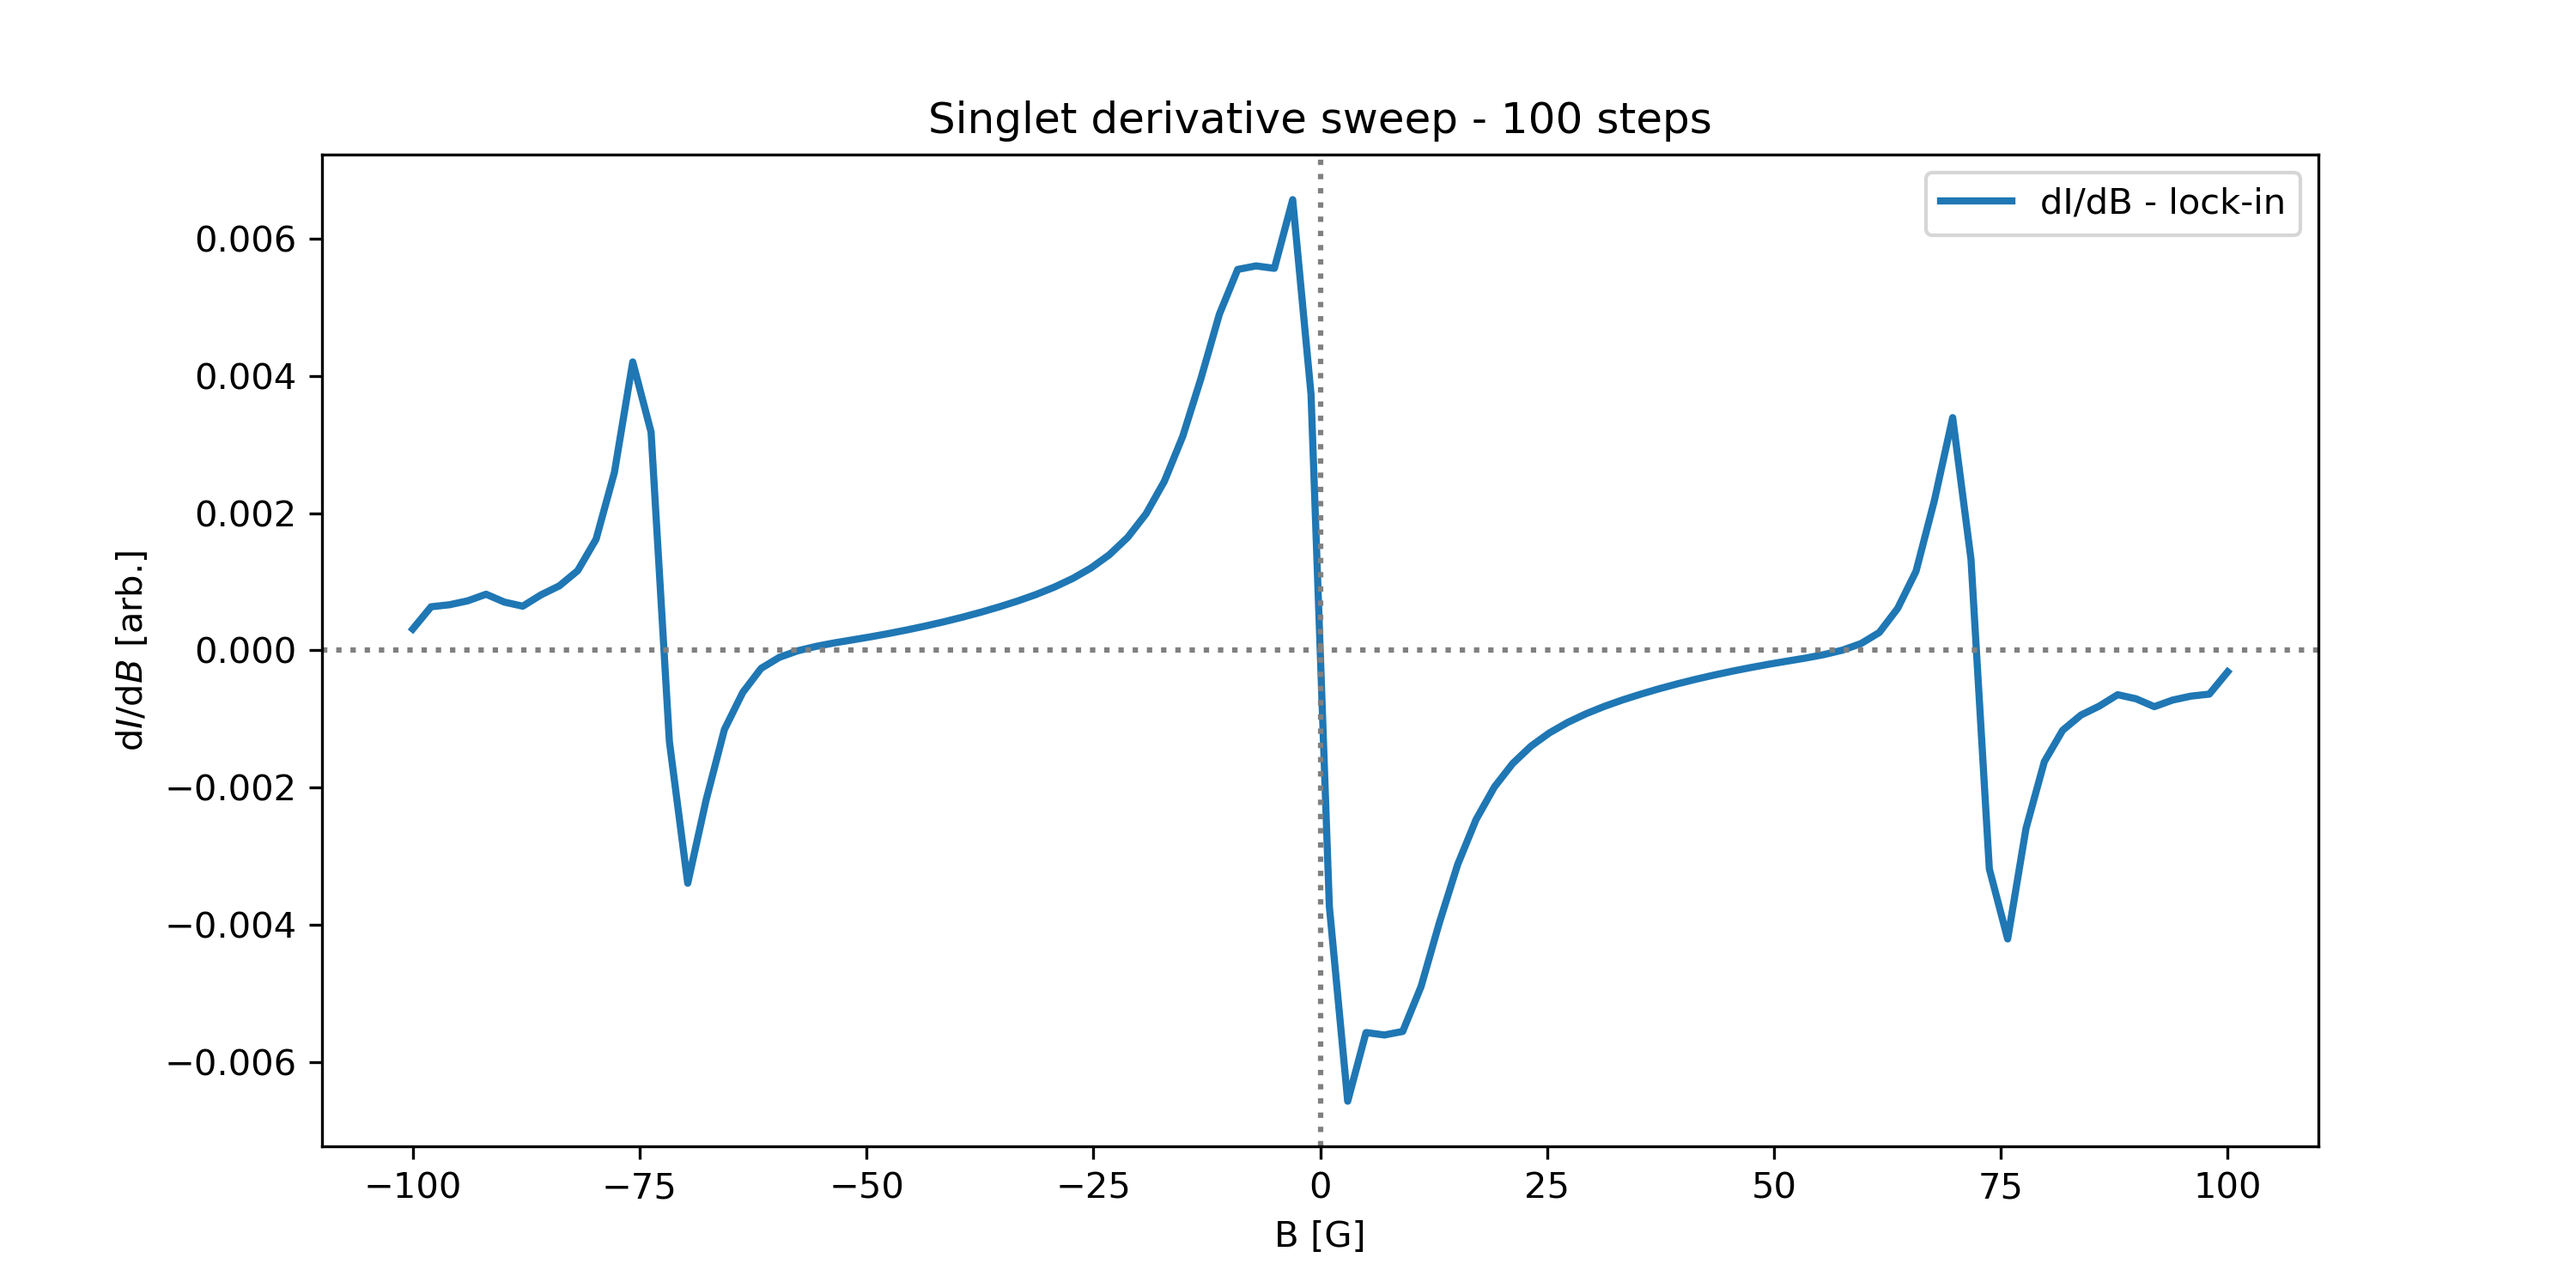
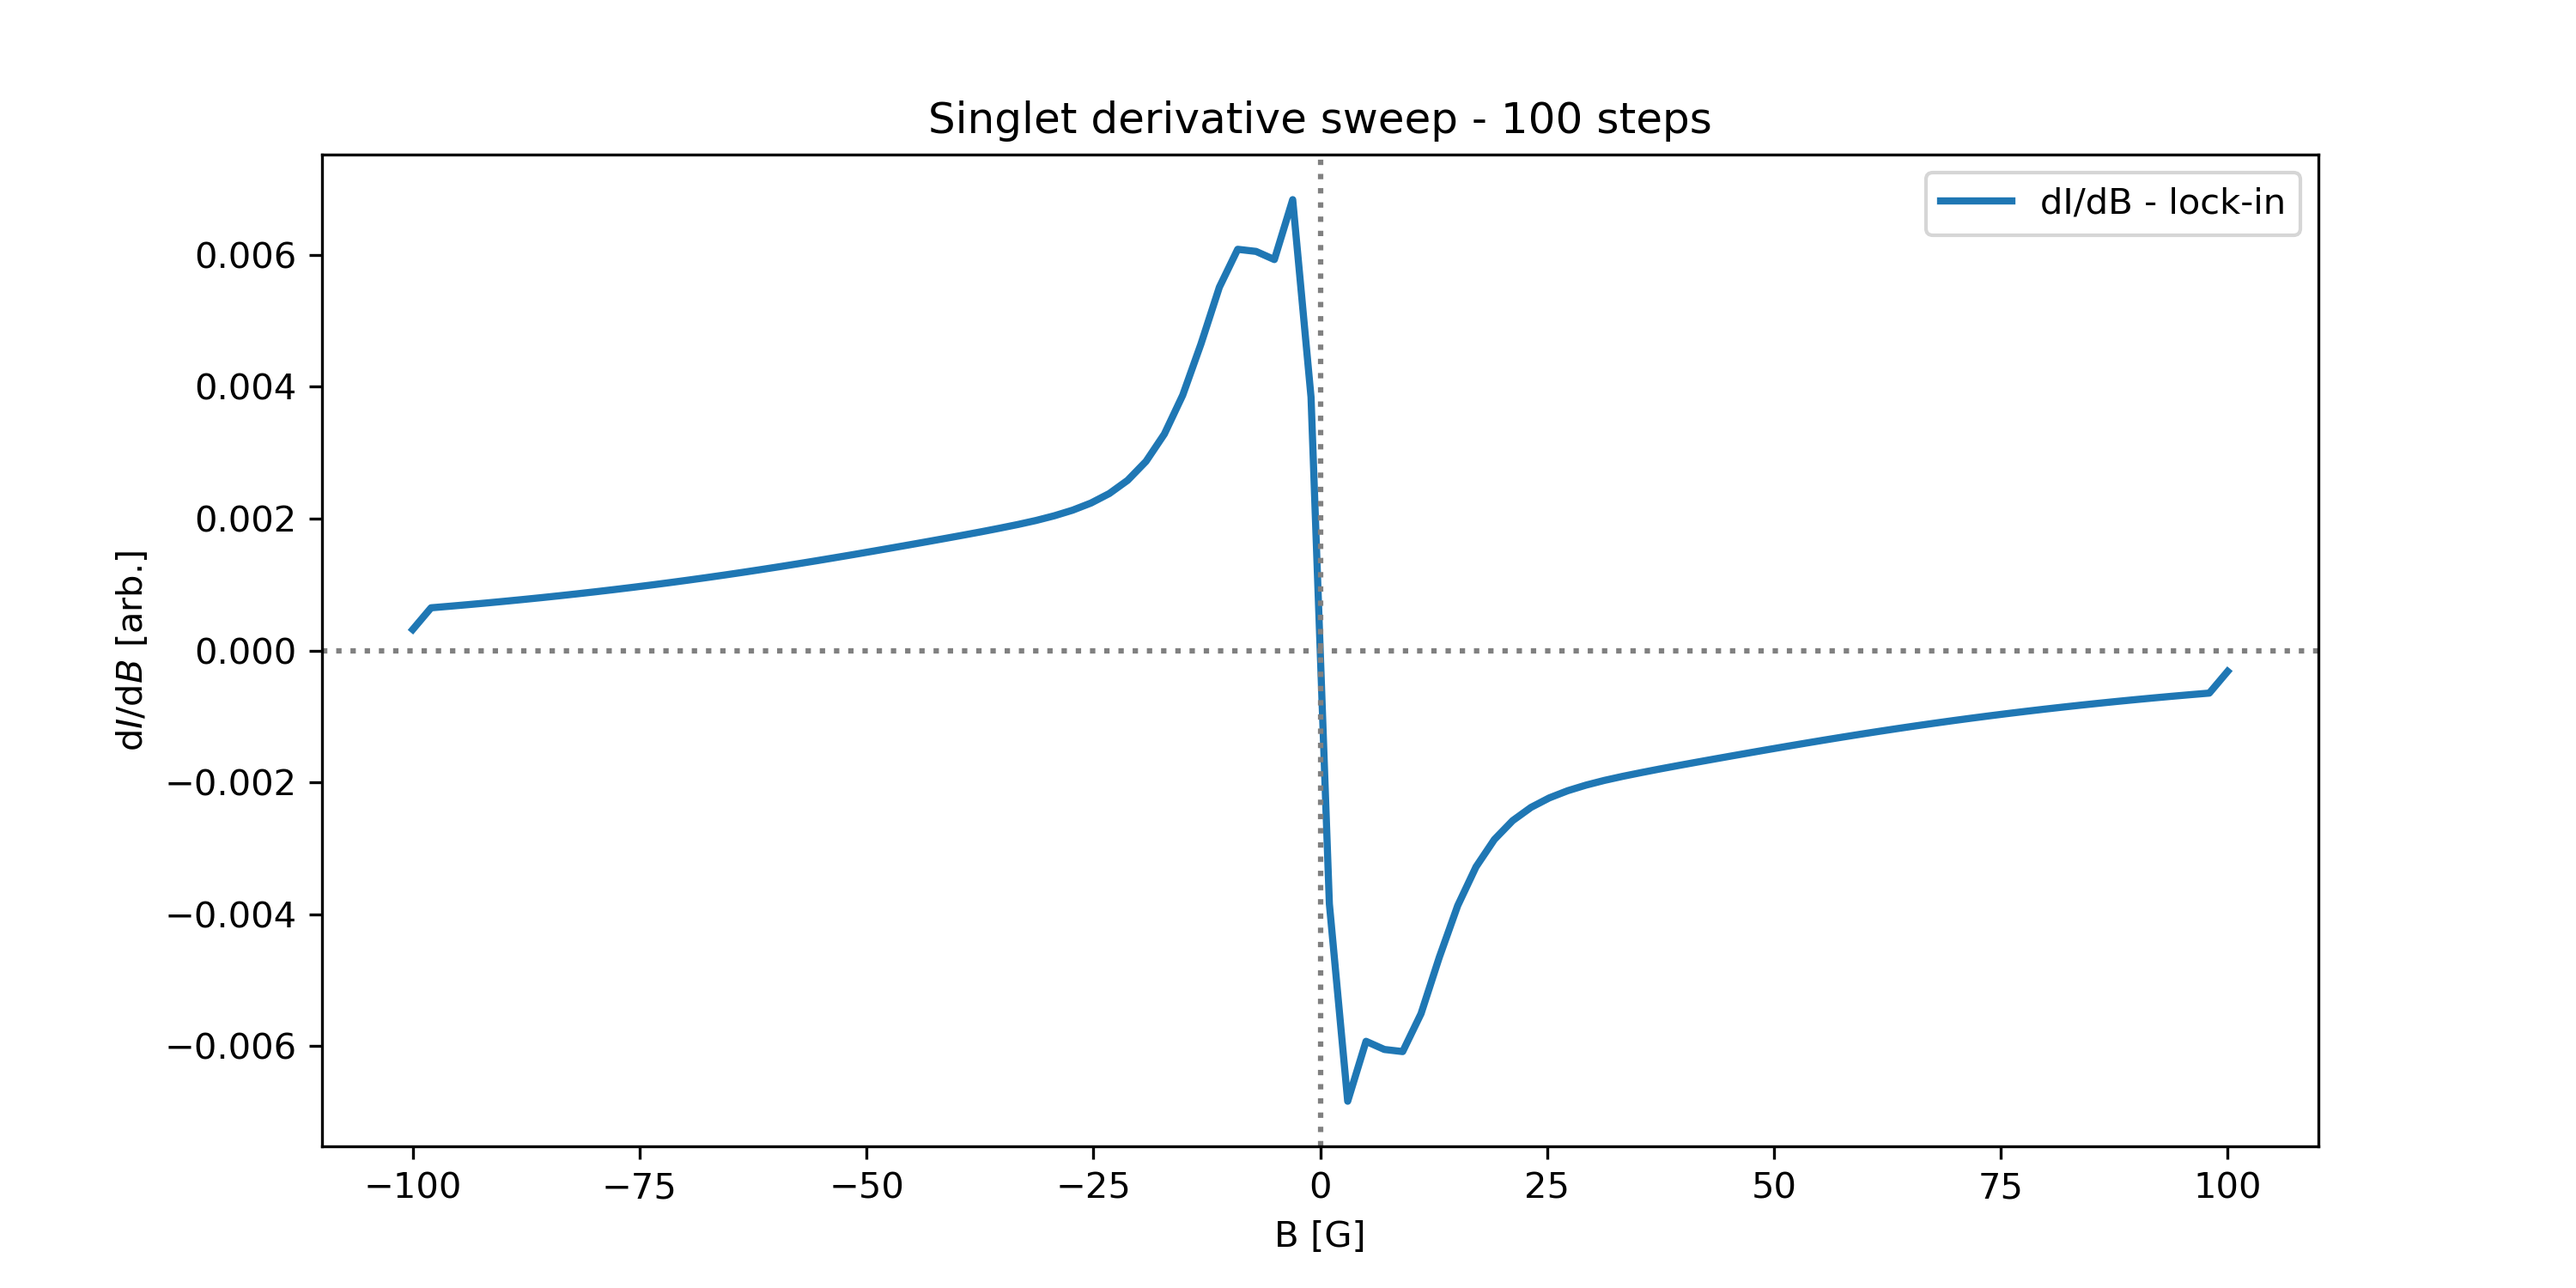
compacted SLE solver

diff --git a/solving_SLE/main/run_solver.py b/solving_SLE/main/run_solver.py
@@ -1,6 +1,6 @@
 from __future__ import annotations 
  
-import logging 
+import logging, os
 import numpy as np 
 import matplotlib.pyplot as plt 
 
@@ -17,7 +17,9 @@ Key: value dictionaries will be used whenever possible.
 This `PARAMETER_ORDER` will only be used as a check when 
 building the parameter vector in the future fitting routines. 
 
-""" 
+"""
+
+PARAMETER_FILE = Path(os.getcwd()).parent / "utils/params.yaml"
 
 PARAMETER_ORDER = [
     "A", "I0",                      # proportion
@@ -51,6 +53,13 @@ def _convert_dict_to_theta(parameters: dict[str, float]) -> np.ndarray:
     for idx, name in enumerate(PARAMETER_ORDER): 
         parameter_vector[idx] = parameters[name] 
     return parameter_vector 
+
+# unused here, will be used in fitting routines
+def _convert_theta_to_dict(parameters: np.ndarray) -> dict[str, float]: 
+    dict_params = {}
+    for idx, value in enumerate(parameters): 
+        dict_params[PARAMETER_ORDER[idx]] = value
+    return  dict_params
 
 def plot_singlet_spectra(
     bmin: float, 
@@ -147,8 +156,6 @@ def plot_singlet_spectra(
     return fig 
 
 
-
-
 if __name__ == "__main__": 
     plot_singlet_spectra( 
         bmin=-85, 
@@ -158,7 +165,7 @@ if __name__ == "__main__":
         n_jobs=2, 
         blocks_per_core=8, 
         modulate=True, 
-        outdir=Path("./media/"), 
+        outdir=Path("../media/"), 
         save=True, 
     )
 

diff --git a/solving_SLE/main/utils/load_bounds.py b/solving_SLE/main/utils/load_bounds.py
@@ -1,0 +1,86 @@
+lower_bounds = {
+    # proportion
+    "A":   1e-4,
+    "I0":  0.0,
+
+    # exchange
+    "J":   1e-9,
+
+    # hyperfine
+    "Aa1": 1e-9,
+    "Ab1": 1e-9,
+    "Aa2": 1e-9,
+    "Ab2": 1e-9,
+
+    # zero-field splitting
+    "D1":  1e-9,
+    "D2":  1e-12,
+
+    # Zeeman (B0 is treated like a fit parameter here)
+    "B0":  -50.0,
+    "g_e": 2.0,
+    "g_n1": -1.2,
+    "g_n2": 1.2,
+
+    # microwave
+    "nu":     1.9e8,
+    "omega1": 1e3,
+
+    # sle rates
+    "k_S": 1e2,
+    "k_D": 1e3,
+    "p":   1e1,
+
+    # lock‑in
+    "B_mod": 0.1,
+
+    # constants (fixed)
+    "h":     4.135667662e-15,
+    "hbar":  6.58211e-16,
+    "mu_B":  5.7883818e-09,
+    "mu_N":  3.1524512e-12,
+}
+
+upper_bounds = {
+    # proportion
+    "A":   1e7,
+    "I0":  2e4,
+
+    # exchange
+    "J":   5e-7,
+
+    # hyperfine
+    "Aa1": 5e-7,
+    "Ab1": 5e-7,
+    "Aa2": 5e-7,
+    "Ab2": 5e-7,
+
+    # zero‑field splitting
+    "D1":  1e-7,
+    "D2":  1e-10,
+
+    # Zeeman
+    "B0":   50.0,
+    "g_e":  2.01,
+    "g_n1": -1.0,
+    "g_n2":  1.6,
+
+    # microwave
+    "nu":     2.1e8,
+    "omega1": 1e7,
+
+    # sle rates
+    "k_S": 1e8,
+    "k_D": 1e9,
+    "p":   1e6,
+
+    # lock‑in
+    "B_mod": 10.0,
+
+    # constants (fixed)
+    "h":     4.135667662e-15,
+    "hbar":  6.58211e-16,
+    "mu_B":  5.7883818e-09,
+    "mu_N":  3.1524512e-12,
+}
+

diff --git a/solving_SLE/main/utils/load_params.py b/solving_SLE/main/utils/load_params.py
@@ -5,16 +5,16 @@ import logging
 logging.basicConfig(level=logging.INFO)
 logger = logging.getLogger(__name__) 
 
-PARAM_KEYS = {
-    "proportion": "A, I0", 
-    "exchange": "J", 
-    "hyperfine": "Aa1, Aa2, Ab1, Ab2", 
-    "zeeman": "g_e, g_n1, g_n2", 
-    "zfs": "D1, D2", 
-    "microwave": "nu, omega1", 
-    "sle": "k_S, k_D, p", 
-    "lockin": "B_mod", 
-    "constants": "h, hbar, mu_B, mu_N",
+PARAMETER_KEYS = {
+    "proportion":   ["A", "I0"], 
+    "exchange":     ["J"], 
+    "hyperfine":    ["Aa1", "Aa2", "Ab1", "Ab2"], 
+    "zeeman":       ["g_e", "g_n1", "g_n2"], 
+    "zfs":          ["D1", "D2"], 
+    "microwave":    ["nu", "omega1"], 
+    "sle":          ["k_S", "k_D", "p"], 
+    "lockin":       ["B_mod"], 
+    "constants":    ["h", "hbar", "mu_B", "mu_N"],
 }
 
 def load_params( 
@@ -48,7 +48,7 @@ def load_params(
 
             logger.error(f"`{key}` not found in params.") 
             logger.error(f"`{param_file}` should have: ")
-            print(PARAM_KEYS)
+            print(PARAMETER_KEYS)
             raise KeyError(f"`{key}` not found in params.")
 
     parameters = flatten( 

diff --git a/solving_SLE/main/sle_model.py b/solving_SLE/main/sle_model.py
@@ -290,6 +290,7 @@ def compute_edmr_spectra(
         parameters: dict[str, float], 
         modulate: bool, 
         n_jobs: int, 
+        blocks_per_core: int,
         show_progress: bool, 
 ) -> np.ndarray:
     """ 
@@ -320,7 +321,7 @@ def compute_edmr_spectra(
         parameters=parameters,
         modulate=modulate, 
         n_jobs=n_jobs,
-        blocks_per_core=8,
+        blocks_per_core=blocks_per_core,
         show_progress=show_progress
     ) 
     return parameters["A"] * dI + parameters["I0"] 

diff --git a/solving_SLE/arch/src/lsq.py b/solving_SLE/arch/src/lsq.py
@@ -15,7 +15,7 @@ logger = logging.getLogger(__name__)
 class EDMRLSQ:
     """
     Fit EDMR spectra data via least-squares optimization.
-    A and I0 are now optimized directly, so the fitted vector is the full 19-parameter set.
+
     """
 
     def __init__(self, B_array, I_array, p0, lower, upper, edmr_func, n_points_per=None, n_jobs=None, show_progress=True, verbose=True):
